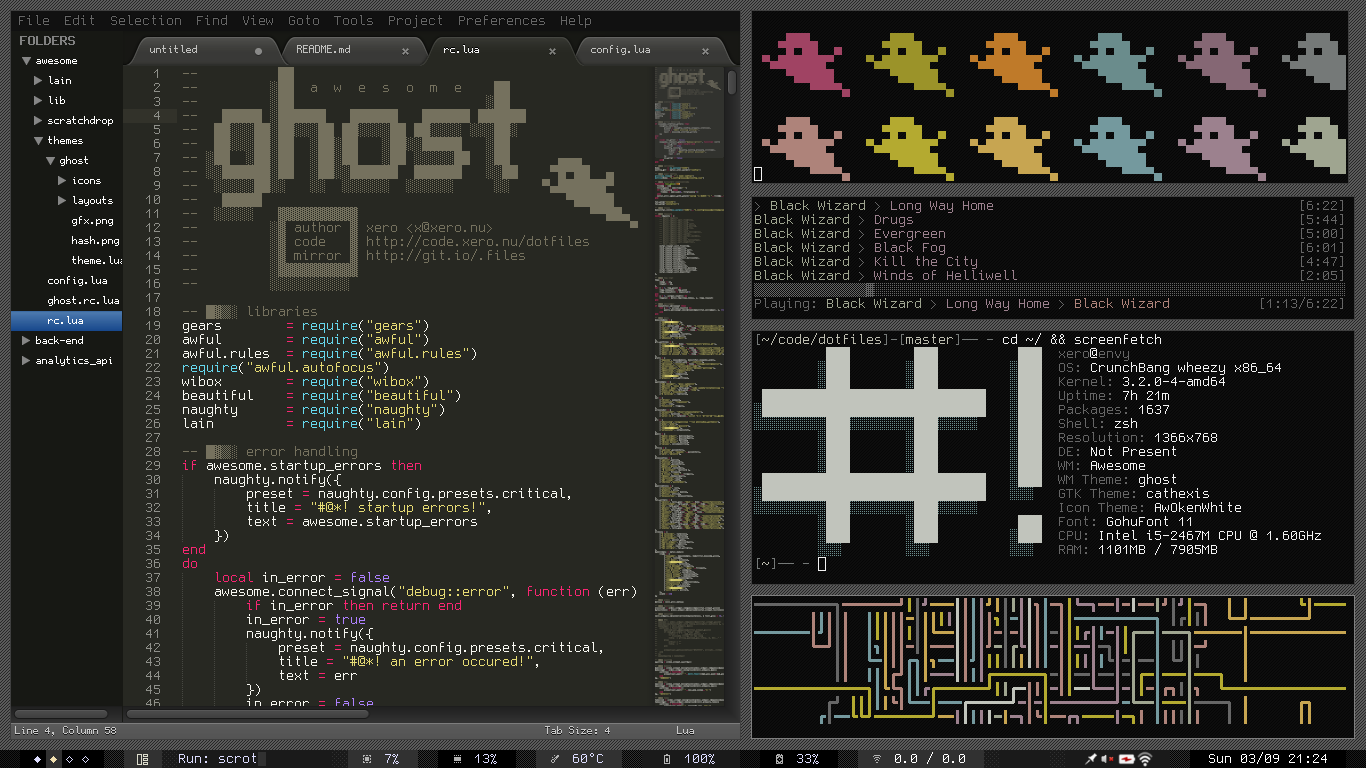
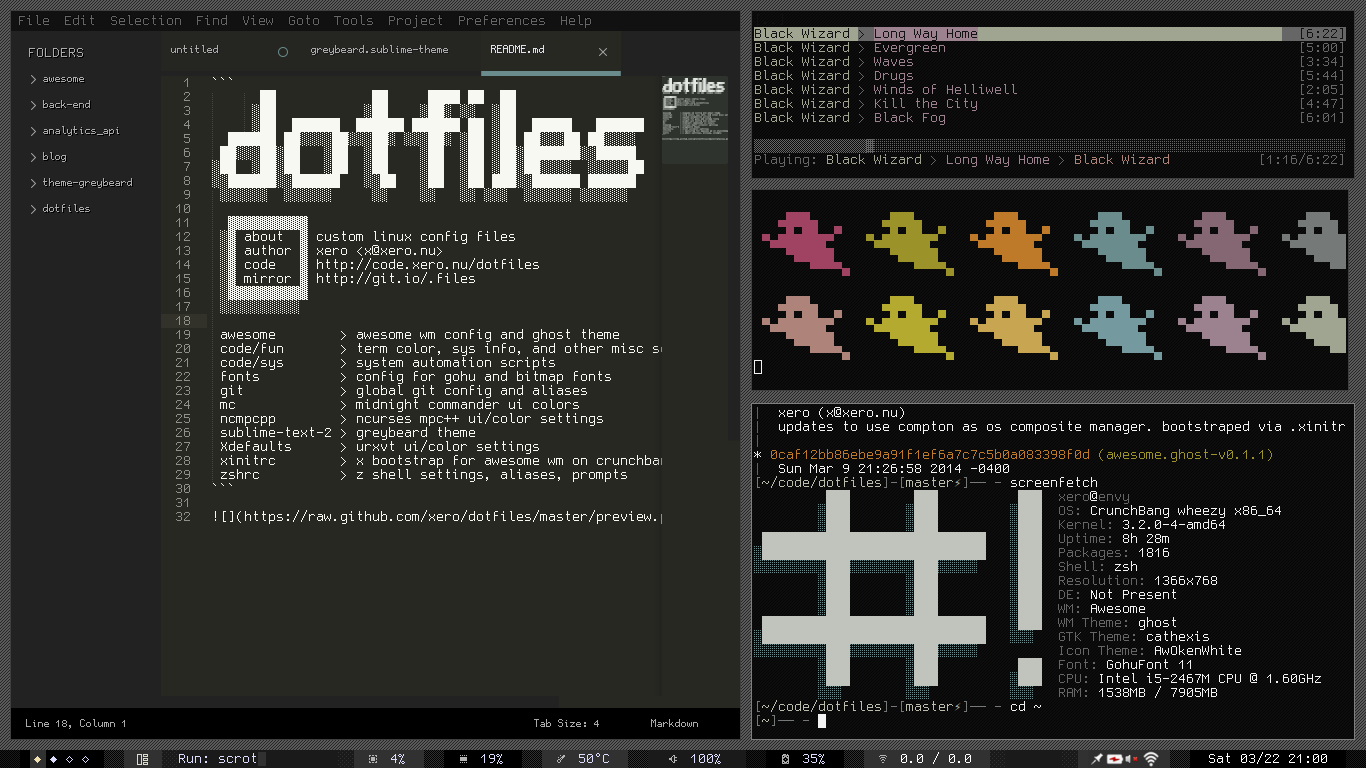
update README and preview for greybeard sublime text theme.

diff --git a/README.md b/README.md
@@ -17,13 +17,13 @@
  ░░░░░░░░░░
 
  awesome        > awesome wm config and ghost theme
- code/fun       > term color, sys info, and other misc scripts
+ code/fun       > term color, sys info, and other misc scripts                  
  code/sys       > system automation scripts
  fonts          > config for gohu and bitmap fonts
  git            > global git config and aliases
  mc             > midnight commander ui colors
  ncmpcpp        > ncurses mpc++ ui/color settings
- sublime-text-2 > blaque theme and ui colors
+ sublime-text-2 > greybeard theme
  Xdefaults      > urxvt ui/color settings
  xinitrc        > x bootstrap for awesome wm on crunchbang
  zshrc          > z shell settings, aliases, prompts
